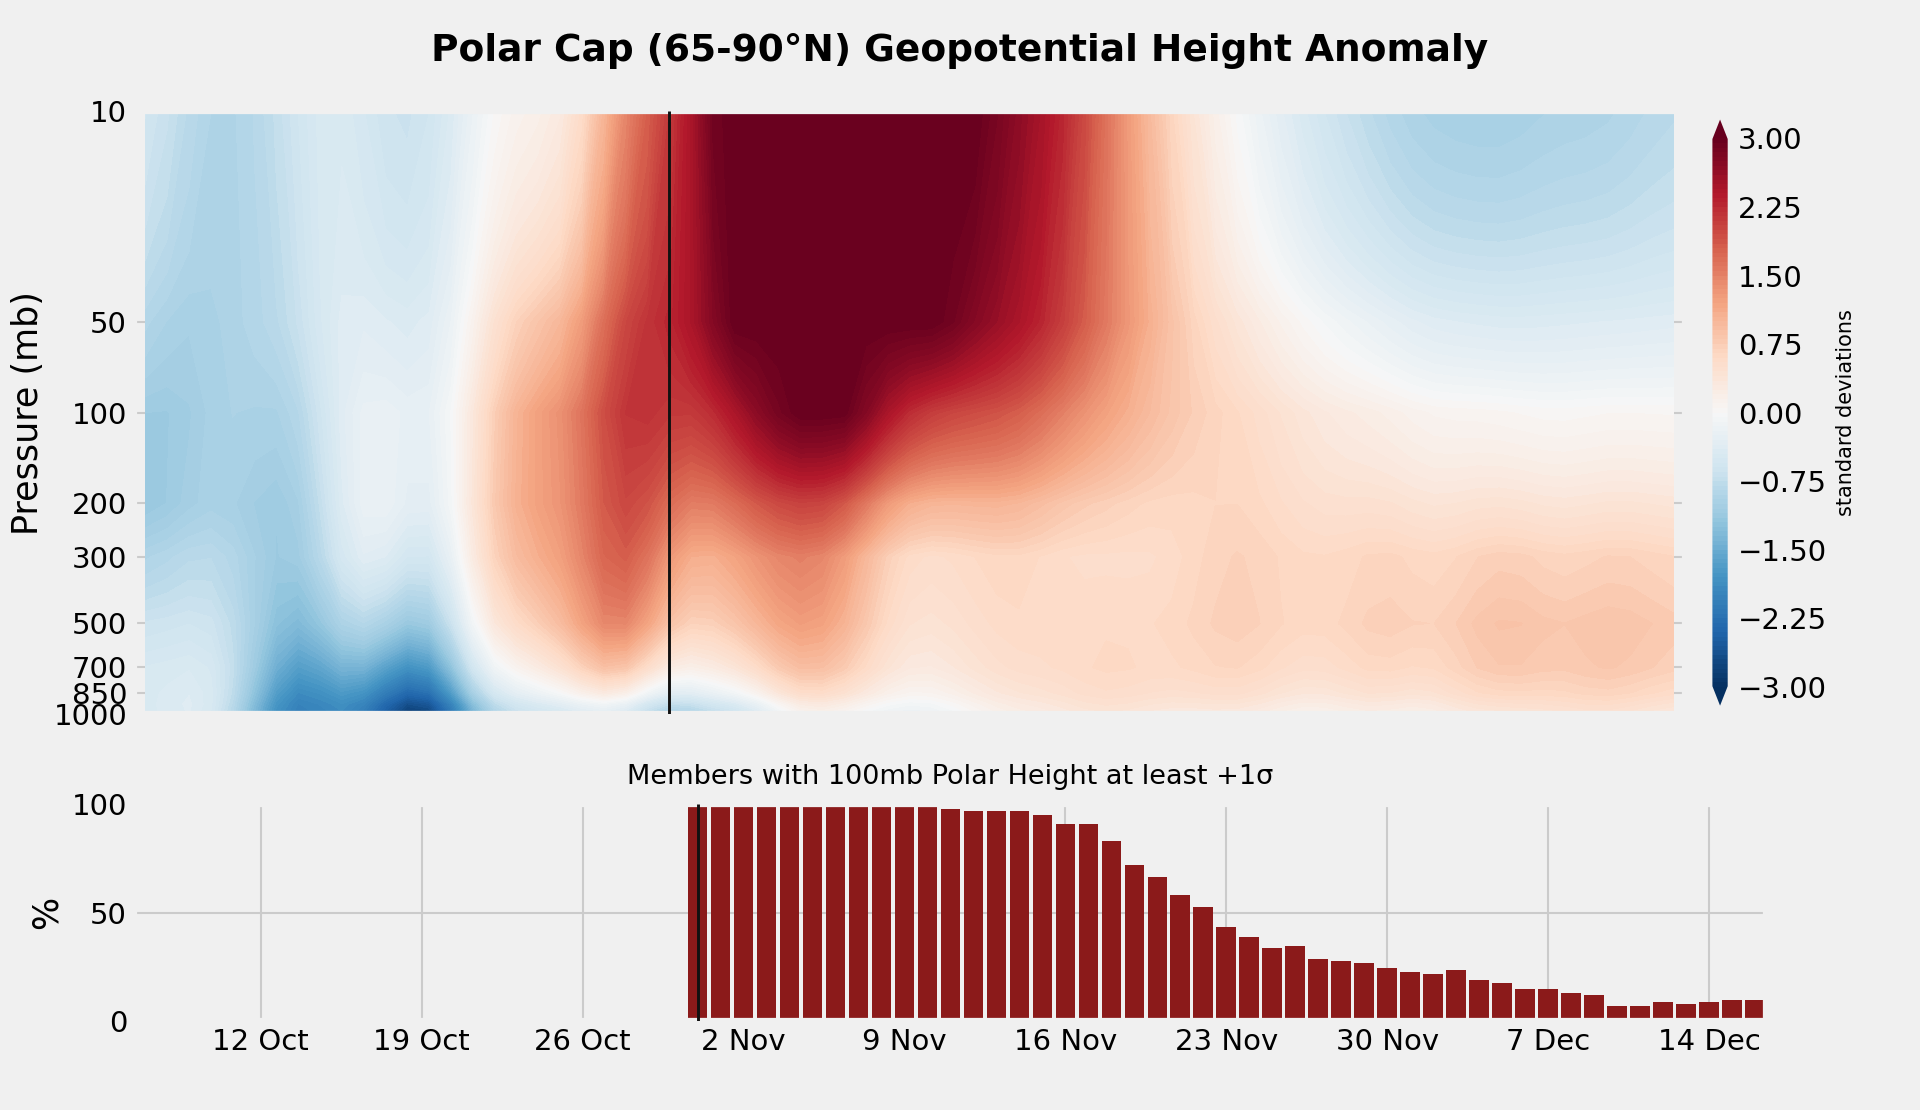
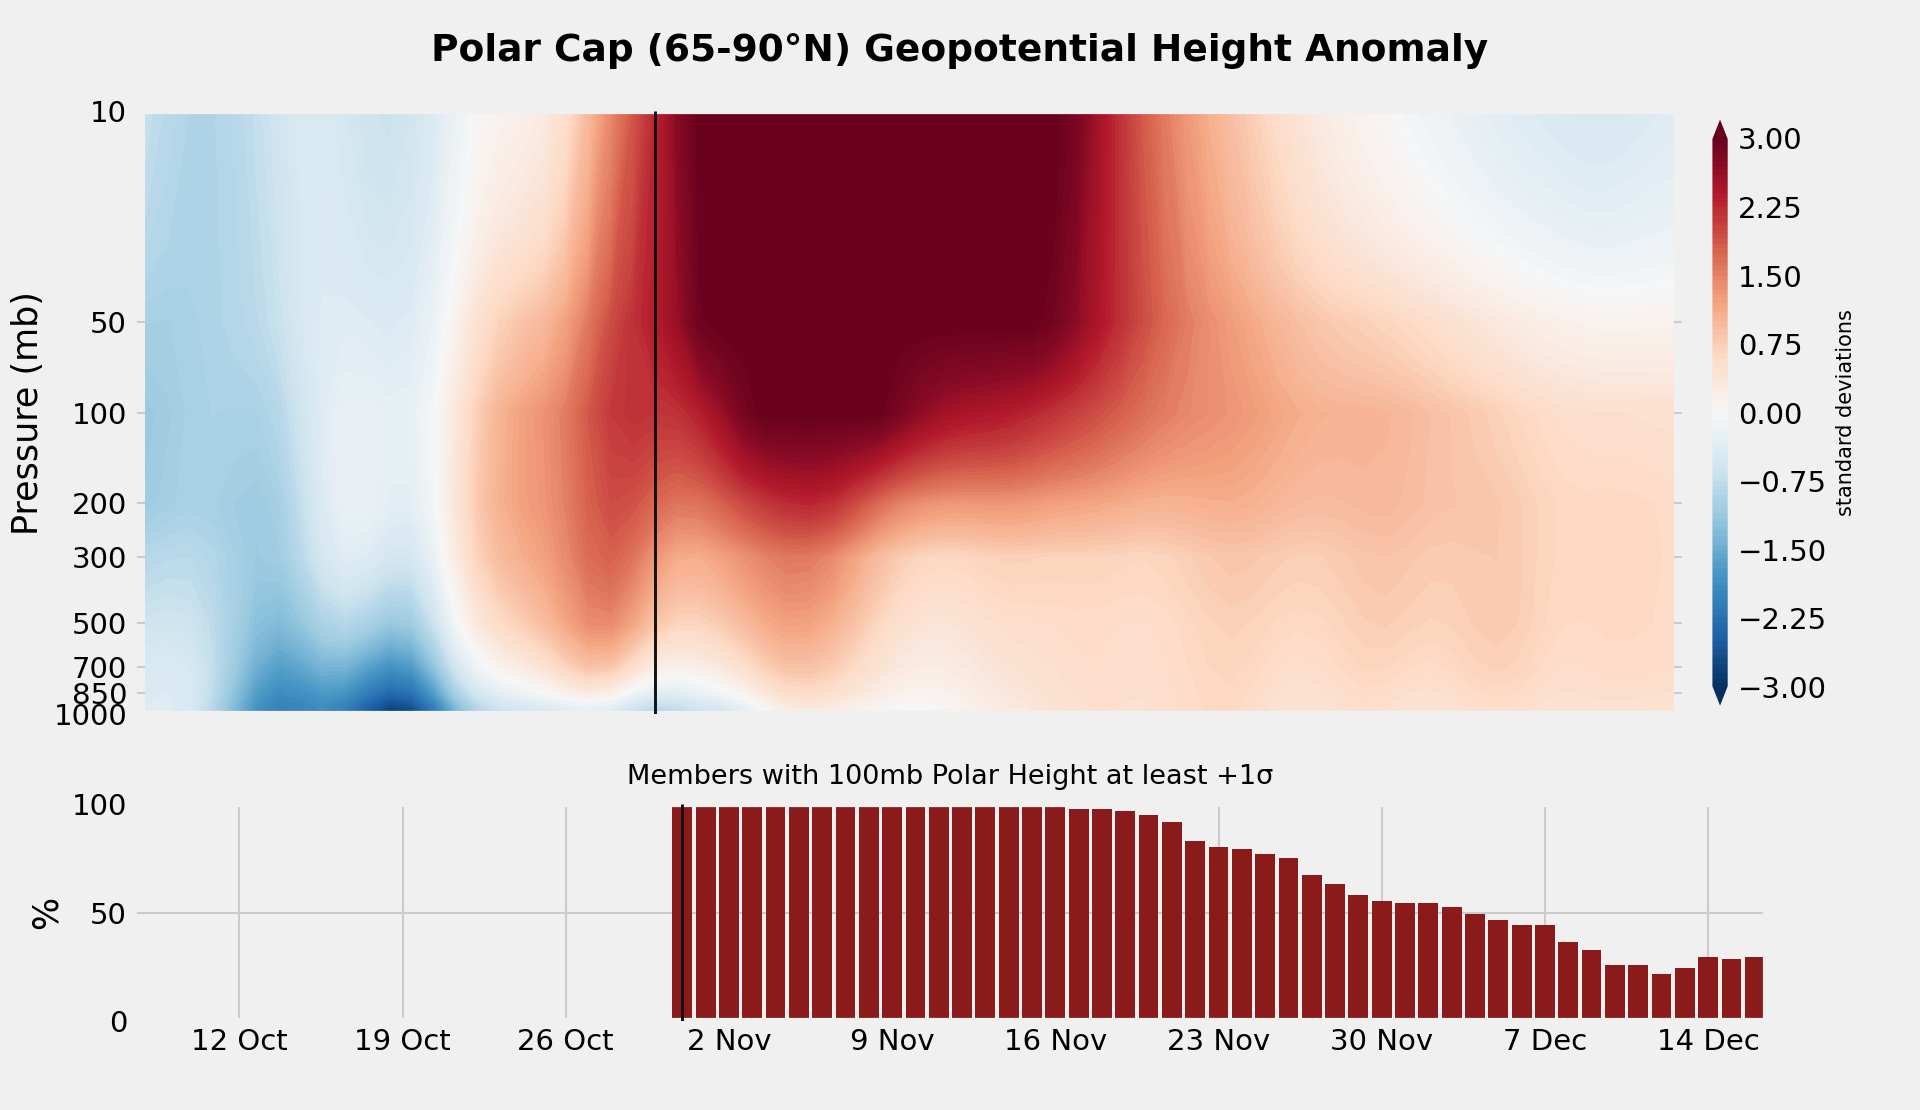
Update polar vortex lede and publish Planette drift-corrected figure.

diff --git a/polar_vortex/index.html b/polar_vortex/index.html
@@ -100,21 +100,21 @@
     <p class="lede">
       Standardized geopotential-height anomaly over the polar cap (65–90°N),
       from the surface to 10 mb. Red is a high polar cap (weak vortex).
-      The bars are the share of ECMWF extended-range members with 100 mb
-      height at least +1σ — the lower-stratosphere descent test.
+      The bars are the share of ECMWF extended-range members that forecast
+      downwelling into the lower stratosphere, not the troposphere.
     </p>
     <p class="status" id="status">Loading latest init…</p>
 
     <div class="frame">
       <img id="chart" alt="Polar-cap geopotential-height anomaly and 100 mb descent probability" src="polar_cap_descent.png">
     </div>
-    <p class="hint">Left of the vertical line is ERA5 analysis. Right is the ECMWF extended-range ensemble mean (101 members), drift-corrected with ~100 S2S control reforecasts. Climate is NCEP/NCAR Reanalysis 1, 1991–2020.</p>
+    <p class="hint">Left of the vertical line is ERA5 analysis. Right is the ECMWF extended-range ensemble mean (101 members), drift-corrected with ~100 Planette IFS control reforecasts. Climate is NCEP/NCAR Reanalysis 1, 1991–2020.</p>
 
     <div class="key">
       <h2>How to read this chart</h2>
       <p>A sudden stratospheric warming shows up here as a deep red column in the upper stratosphere. Whether it matters for surface weather depends on whether that anomaly descends. The usual test is a lower-stratosphere polar-cap height of at least +1 standard deviation. This ensemble does not archive 150 mb, so the test uses 100 mb.</p>
       <p>The top panel is the ensemble-mean standardized anomaly. The bottom panel is the member-by-member probability of clearing that +1σ threshold at 100 mb. High bars with little red below ~300 mb mean the ensemble still has a high polar cap aloft that has not yet coupled strongly into the troposphere.</p>
-      <p>Drift correction subtracts the model’s average lead-dependent bias, measured from about 100 S2S control reforecasts (5 nearby model dates × 20 hindcast years). Without it, the 500 mb polar cap can run about half a standard deviation high by week 3 — as large as a typical coupling threshold.</p>
+      <p>Drift correction subtracts the model’s average lead-dependent bias, measured from about 100 Planette IFS control reforecasts (5 nearby model dates × 20 hindcast years). Without it, the 500 mb polar cap can run about half a standard deviation high by week 3 — as large as a typical coupling threshold.</p>
       <p>ERA5 lags the open-data weeklies by a day or two. The forecast starts at the initialization; analysis stops the day before. Diagnostics are experimental.</p>
     </div>
   </div>
